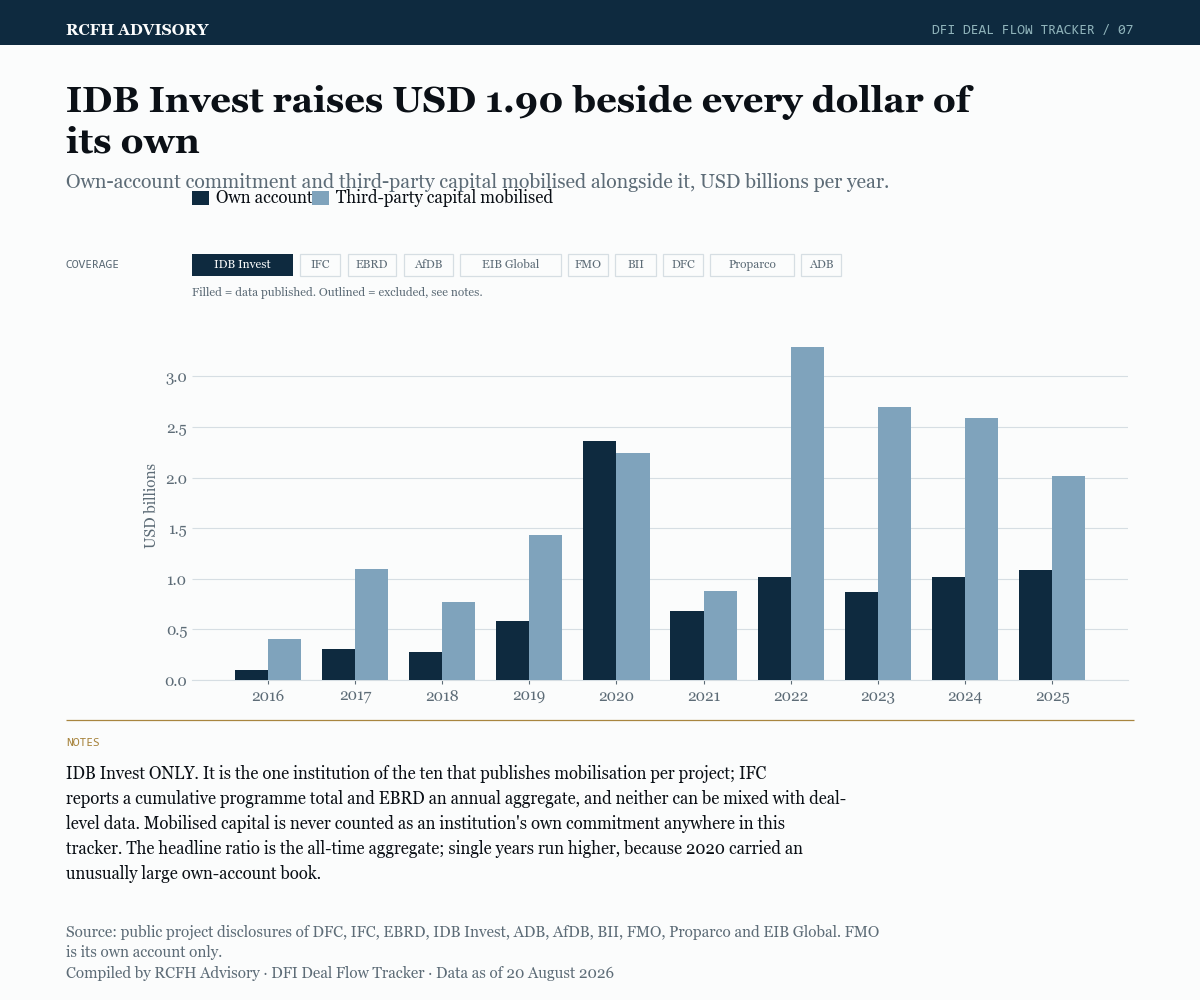
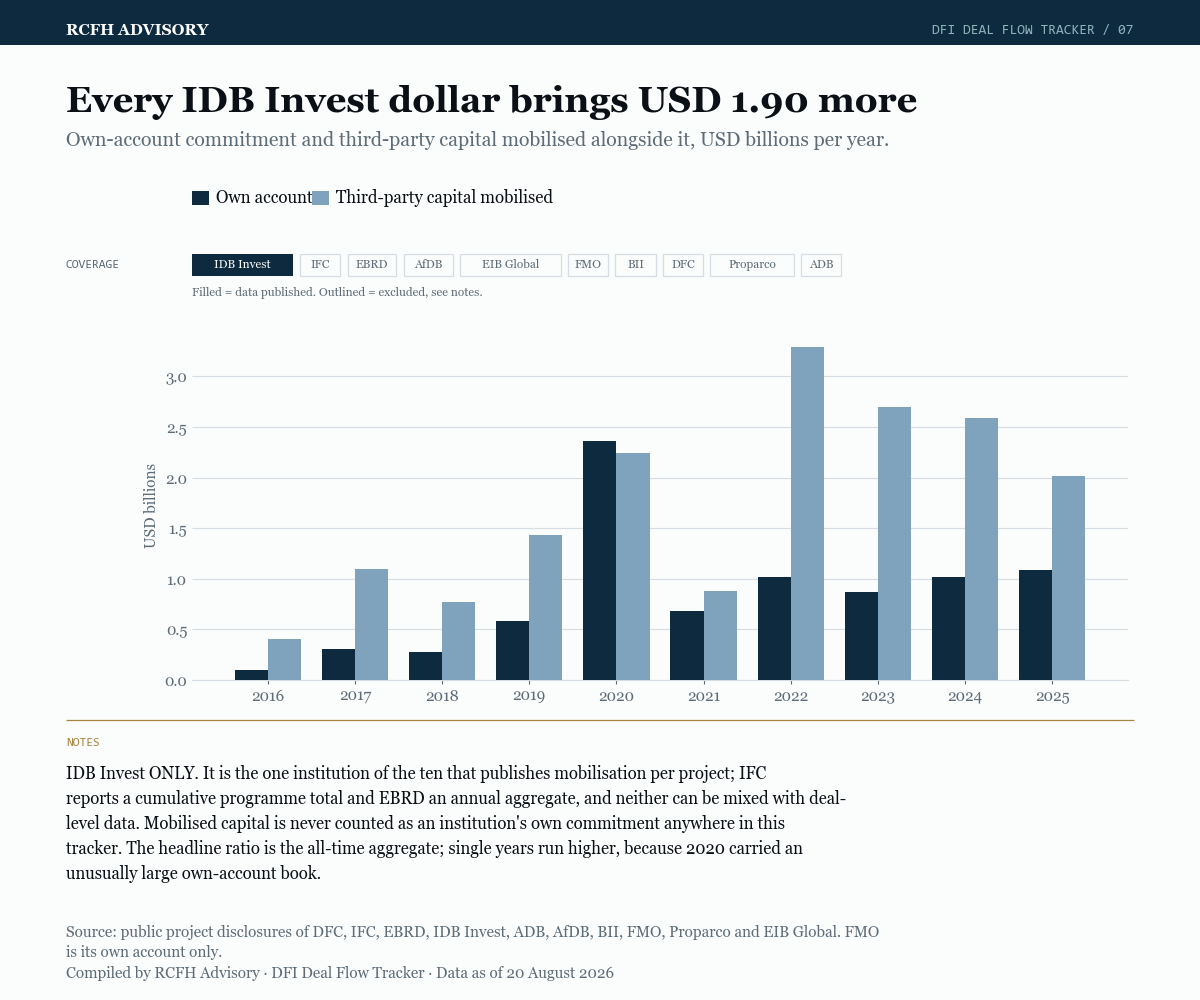
Keep exhibit 07 title to one line
The tracker surface wraps titles at 52 characters. At 57 the mobilisation
title ran to two lines, which pushed the dek down onto the legend swatches.
Shortened to 44, which is a stronger finding-line anyway.

Changed region(s): [[0.0308, 0.062, 0.8017, 0.186]]

diff --git a/export_charts.py b/export_charts.py
@@ -388,8 +388,9 @@ def mobilisation(conn, stamp):
     ratio = mob_all / own_all if own_all else 0
 
     fig, ax = rcfh.figure("tracker")
-    rcfh.header(fig, f"IDB Invest raises USD {ratio:,.2f} beside every dollar "
-                     "of its own",
+    # The tracker surface wraps titles at 52 characters. A two-line title
+    # pushes the dek down into the legend, so this one stays short.
+    rcfh.header(fig, f"Every IDB Invest dollar brings USD {ratio:,.2f} more",
                 dek="Own-account commitment and third-party capital mobilised "
                     "alongside it, USD billions per year.", exhibit="07")
     rcfh.legend(fig, ["Own account", "Third-party capital mobilised"],
